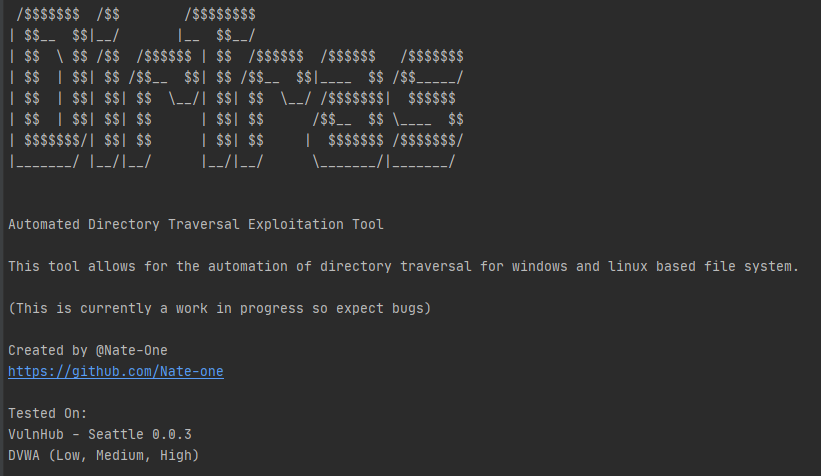
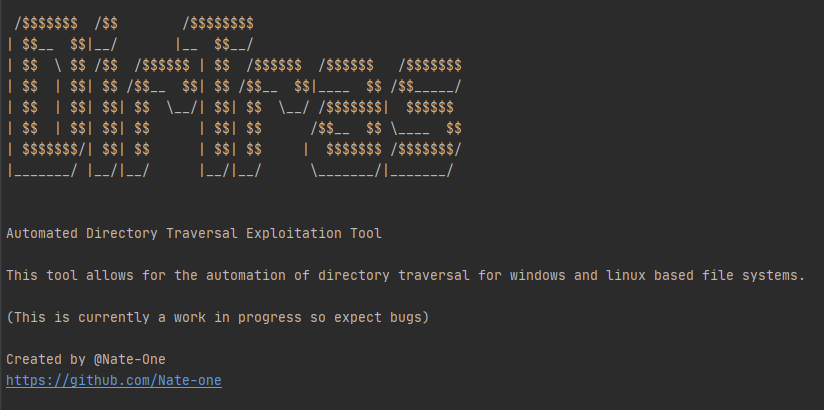
Grammar

diff --git a/dirtras.py b/dirtras.py
@@ -133,7 +133,7 @@ print("""
                                             
 Automated Directory Traversal Exploitation Tool
 
-This tool allows for the automation of directory traversal for windows and linux based file system.
+This tool allows for the automation of directory traversal for windows and linux based file systems.
 
 (This is currently a work in progress so expect bugs)
 
@@ -189,13 +189,13 @@ for arg, val in arguments:
         if len(arguments) <= 1:  # Exits if help is the only flag
             sys.exit()
 
-    if arg in ("-b", "--bugs"):
+    elif arg in ("-b", "--bugs"):
         print(bug_info)
 
         if len(arguments) <= 1:
             sys.exit()
 
-    if arg in ("-u", "--url"):
+    elif arg in ("-u", "--url"):
         url, url_check = val, True
 
         if url[-1:] == "=":  # Last character should be =
@@ -206,50 +206,49 @@ for arg, val in arguments:
         except ValueError:
             sys.exit(f"Invalid URL - {url} \n\nIt seems that URL isn't affected by directory traversal.")
 
-    if arg == "--os":
+    elif arg == "--os":
         OS = val.lower()
         if OS in ("linux", "windows"):
             continue
         else:
             sys.exit(f"Invalid OS - {OS} \n\nUse either \'Linux\' or \'Windows\'")  # Exit if invalid OS defined
 
-    if arg in ("-x", "--proxy"):
+    elif arg in ("-x", "--proxy"):
 
         proxy = val
-        continue
 
-    if arg in ("-p", "--port"):
+    elif arg in ("-p", "--port"):
         try:
             port = int(val)
             continue
         except ValueError as error:
             sys.exit("Error whilst setting port - {error} \n\nUser an integer arguement")
 
-    if arg in ("-d", "--delay"):
+    elif arg in ("-d", "--delay"):
         try:
             delay = int(val)
         except ValueError as error:
             sys.exit(f"Error whilst setting delay - {error} \n\nUse an integer arguement")
         continue
 
-    if arg in ("-f", "--file"):
+    elif arg in ("-f", "--file"):
         file, file_check = val, True
         continue
 
-    if arg in ("-o", "--output"):
+    elif arg in ("-o", "--output"):
         output, output_check = val, True
 
-    if arg in ("-c", "--cookies"):
+    elif arg in ("-c", "--cookies"):
         cookie = val
         if "," in cookie:
             cookie = cookie.split(",")
 
-    if arg == "--cookie-name":
+    elif arg == "--cookie-name":
         cookie_name = val
         if "," in cookie_name:
             cookie_name = cookie_name.split(",")
 
-    if arg == "--host-system":
+    elif arg == "--host-system":
         if val.lower() in ("linux", "windows"):
             host_sys = val.lower()
         else:
